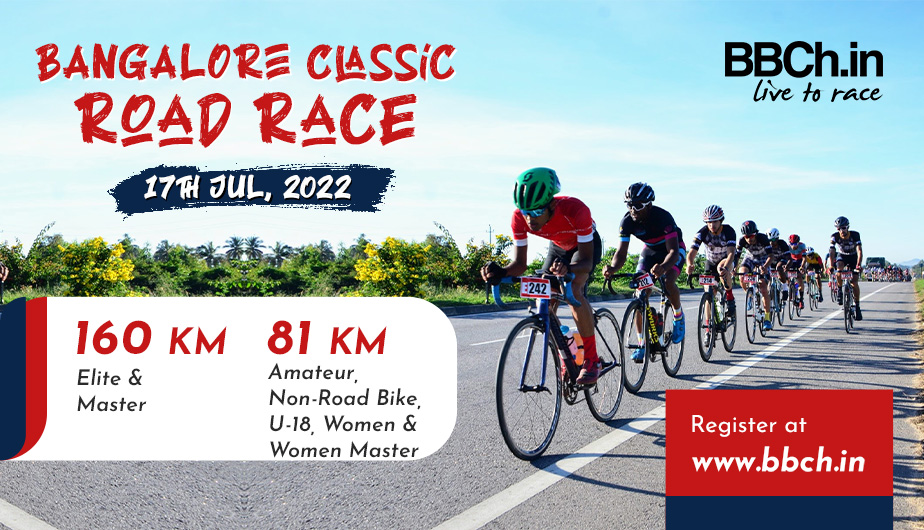
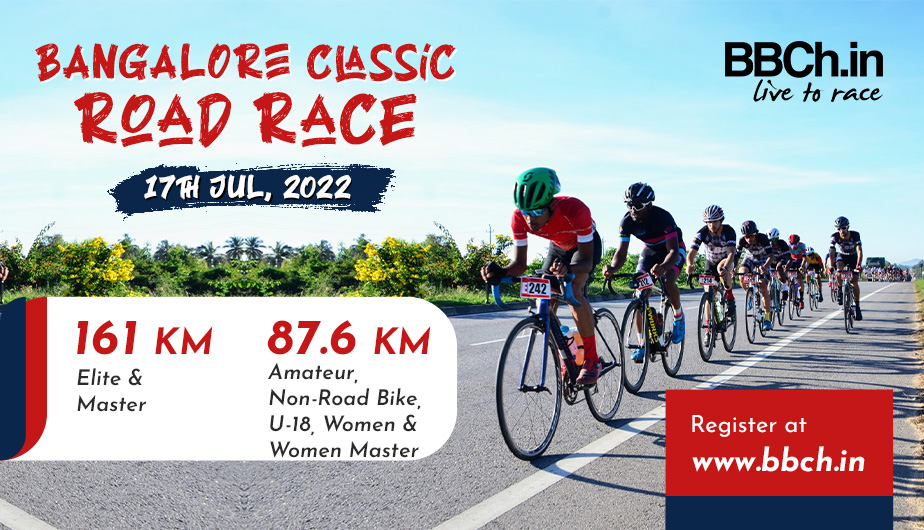
'new'

Changed region(s): [[0.303, 0.6038, 0.4848, 0.6642], [0.1212, 0.6038, 0.2424, 0.6642]]

diff --git a/BBCh22Race06.htm b/BBCh22Race06.htm
@@ -260,20 +260,20 @@
                 
                 <div style="width: 48%; float: left">
                     <p>
-                        <span class="CaptionText">When: </span>Sunday, 17th July 2012<br />
+                        <span class="CaptionText">When: </span>Sunday, 17th July 2022<br />
                         <span class="CaptionText">Where: </span>
-                        <a href="https://goo.gl/maps/3u5nyn65yuvqFXQFA" target="_blank">Nandi Hill Cross, BLR-HYD Highway (Nr Nandi Upachar)</a><br />
-                        <span class="CaptionText">Google Map: </span>
-                        <a href="https://goo.gl/maps/3u5nyn65yuvqFXQFA" target="_blank">https://goo.gl/maps/3u5nyn65yuvqFXQFA</a><br />
+                        <a href="https://goo.gl/maps/MxPVWBFxd3vrYTZq8" target="_blank">Opp. Nandi Hill Cross, Opp. Nandi Upachar)</a><br />
+                        <span class="CaptionText">Race Venue / Assembly / Parking - Google Map </span>
+                        <a href="https://goo.gl/maps/MxPVWBFxd3vrYTZq8" target="_blank">https://goo.gl/maps/MxPVWBFxd3vrYTZq8</a><br />
 
                         <span class="CaptionText">Reporting Time : </span>5:30AM<br /><br />
 
-                        <span class="CaptionText">**Race Distance : </span>161.4km<br />
+                        <span class="CaptionText">**Race Distance : </span>161km<br />
                         <span class="CaptionText" style="padding-left: 40px">Categories :</span> Elite & Masters<br />
                         <span class="CaptionText" style="padding-left: 40px">Race Start :</span> 6:30AM<br />
-                        <span class="CaptionText" style="padding-left: 40px">Cut-off Time :</span> 12:30PM / 360 Mins<br /><br />
+                        <span class="CaptionText" style="padding-left: 40px">Cut-off Time :</span> 12:00PM<br /><br />
 
-                        <span class="CaptionText">**Race Distance : </span>81km<br />
+                        <span class="CaptionText">**Race Distance : </span>87.6km<br />
                         <span class="CaptionText" style="padding-left: 40px">Categories :</span> U-18, Women, Women Master, Amateur & Non-Road Bike<br />
                         <span class="CaptionText" style="padding-left: 40px">Race Start :</span> All Women - 7:30AM<br />
                         <span class="CaptionText" style="padding-left: 40px">Race Start :</span> Amateur - 8:00AM<br />
@@ -307,56 +307,72 @@
                     
                     <p>
                         Bangalore Bicycle Championships is organising the Bangalore Classic Road Race. There will be two distances, 
-                        160km Race for Elite and Masters; and 81km Race for Amateurs, Non-Road Bike, Women, Women Master and U-18. 
+                        161km Race for Elite and Masters; and 87.6km Race for Amateurs, Non-Road Bike, Women, Women Master and U-18. 
                         The race will be on NH-7 Bangalore - Hyderabad Highway.<br />
                         <br />
                         Get your race face on people and get ready for a rocking road season at the Bangalore Bicycle Championships. <br />
                         <br />
                         <br />
                     </p>
-                <p>
-                    <span class="CaptionText">Categories : </span><br />
-                    <b>* Elite (Open for all)<br /></b>
-                        PS : Who participate in Elite should stick to Elite category for rest of the season, 
+                    <p>
+                        <span class="CaptionText">Categories : </span><br />
+                        <b>* Elite (Open for all)<br /></b>
+                        PS : Who participate in Elite should stick to Elite category for rest of the season,
                         they cann't go back to Amateur in other road races of this season. <br />
-                        Elite category is also open for anybody who wants to race but since that is the 
-                        category where most of the pro cyclists take part, it is better to have some good 
-                        level of experience to enroll into Elite category otherwise it might cause 
+                        Elite category is also open for anybody who wants to race but since that is the
+                        category where most of the pro cyclists take part, it is better to have some good
+                        level of experience to enroll into Elite category otherwise it might cause
                         inconvenience for the entire peloton due to handling and skill set.<br />
 
-                    <b>* Amateur<br /></b>
-                    Amateur category is open for anybody who wants to race irrespective of age.<br />
+                        <b>* Amateur<br /></b>
+                        Amateur category is open for anybody who wants to race irrespective of age.<br />
 
-                    <b>* Non-Road Bike<br /></b>
-                        Non-Road Bike Category is for only non-road bikers. Cyclist can use hybrid, MTB, 
+                        <b>* Non-Road Bike<br /></b>
+                        Non-Road Bike Category is for only non-road bikers. Cyclist can use hybrid, MTB,
                         Foldie. Note: Fixie and single speed Bike is not allowed.<br />
-                    
 
-                    <b>* Master 40+ (Open for Men and Women)<br /></b>
-                        Participants age should be 40 years and above (40+) as on race day. Riders are free to 
+
+                        <b>* Master 40+ <br /></b>
+                        Participants age should be 40 years and above (40+) as on race day. Riders are free to
                         participate in Elite/Amateur category if they wish to. <br />
-                        Masters category is for anybody who is above 40 years of age 
+                        Masters category is for anybody who is above 40 years of age
                         irrespective of gender.<br />
 
-                    <b>* Women<br /></b>
-                    - Girls below the age of 18 may opt for Women category also if they wish to.<br />
-                    
-                    <b>* Under18 (both boys and girls)<br /></b>
-	                    Participants age should lesser than 18 years as on race day. Proof of age needs to 
+                        <b>* Women<br /></b>
+                        - Girls below the age of 18 may opt for Women category also if they wish to.<br />
+
+                        <b>* Under18 (both boys and girls)<br /></b>
+                        Participants age should lesser than 18 years as on race day. Proof of age needs to
                         be produced at the time of bib collection<br />
                         Under-18 category is common for both boys and girls who are below the age of 18.<br /><br />
                         - Photo and Birth date ID card mandatory.<br />
                         - Its mandatory for parent/guardian/team manager to accompany the U-18 participants.<br />
-                        - Parent/Guardian/team manager owns full responsibility of the safety of the participant. 
-                        They will have to sign the indemnity form before issue of BIB, without which the participant 
+                        - Parent/Guardian/team manager owns full responsibility of the safety of the participant.
+                        They will have to sign the indemnity form before issue of BIB, without which the participant
                         will not be allowed to take part in the race.<br />
 
-                    
-                    <!--<b>* Kids Fun Ride<br /></b>
-                    Participants age should be lesser than 10 years. Parent/Guardian 
-                    presence is a must. No restriction on type of bike 
-                    (they can race with tricycle also :P ) (born on 15-July-2008 or after)-->
-                </p>
+                        <b> *WOMEN MASTER (40+)</b><br />
+
+                        This category is for women who are ABOVE the age of 40 years as on the race day. 
+                        The Women Master category is created to cater to women participants who think they can 
+                        compete against women who are younger. This category will mirror the distances that the 
+                        women category races at.<br />
+
+                        Note: 1) Whoever participates in the Women Master category should stick to the Master 
+                        category for the rest of the season, they can't go back to Women category in other road 
+                        races of that particular season. 2) Women above 40 who want to race the distances that 
+                        the Elite racers do and want to compete at the Masters can still choose to do so by 
+                        registering in the Open Masters category. 3) We need a minimum of 10 participants on race 
+                        day in the Women Master category. In case of lesser number of participation, then the Women 
+                        Master category will merged with Women category and all women riders will share the same podium 
+                        irrespective of their age.
+
+
+                        <!--<b>* Kids Fun Ride<br /></b>
+    Participants age should be lesser than 10 years. Parent/Guardian
+    presence is a must. No restriction on type of bike
+    (they can race with tricycle also :P ) (born on 15-July-2008 or after)-->
+                    </p>
                 
                 <br /><br />
                 <div>

diff --git a/index.html b/index.html
@@ -449,20 +449,20 @@
                 <h4>UPCOMING RACE : <a href="BBCh22Race06.htm">Bangalore Classic Road Race</a></h4>
 
                 <p>
-                    <span class="CaptionText">When: </span>Sunday, 17th July 2012<br />
+                    <span class="CaptionText">When: </span>Sunday, 17th July 2022<br />
                     <span class="CaptionText">Where: </span>
-                    <a href="https://goo.gl/maps/3u5nyn65yuvqFXQFA" target="_blank">Nandi Hill Cross, BLR-HYD Highway (Nr Nandi Upachar)</a><br />
-                    <span class="CaptionText">Google Map: </span>
-                    <a href="https://goo.gl/maps/3u5nyn65yuvqFXQFA" target="_blank">https://goo.gl/maps/3u5nyn65yuvqFXQFA</a><br />
+                    <a href="https://goo.gl/maps/MxPVWBFxd3vrYTZq8" target="_blank">Opp. Nandi Hill Cross, Opp. Nandi Upachar)</a><br />
+                    <span class="CaptionText">Race Venue / Assembly / Parking - Google Map </span>
+                    <a href="https://goo.gl/maps/MxPVWBFxd3vrYTZq8" target="_blank">https://goo.gl/maps/MxPVWBFxd3vrYTZq8</a><br />
 
                     <span class="CaptionText">Reporting Time : </span>5:30AM<br /><br />
 
-                    <span class="CaptionText">**Race Distance : </span>161.4km<br />
+                    <span class="CaptionText">**Race Distance : </span>161km<br />
                     <span class="CaptionText" style="padding-left: 40px">Categories :</span> Elite & Masters<br />
                     <span class="CaptionText" style="padding-left: 40px">Race Start :</span> 6:30AM<br />
-                    <span class="CaptionText" style="padding-left: 40px">Cut-off Time :</span> 12:30PM / 360 Mins<br /><br />
+                    <span class="CaptionText" style="padding-left: 40px">Cut-off Time :</span> 12:00PM<br /><br />
 
-                    <span class="CaptionText">**Race Distance : </span>81km<br />
+                    <span class="CaptionText">**Race Distance : </span>87.6km<br />
                     <span class="CaptionText" style="padding-left: 40px">Categories :</span> U-18, Women, Women Master, Amateur & Non-Road Bike<br />
                     <span class="CaptionText" style="padding-left: 40px">Race Start :</span> All Women - 7:30AM<br />
                     <span class="CaptionText" style="padding-left: 40px">Race Start :</span> Amateur - 8:00AM<br />
